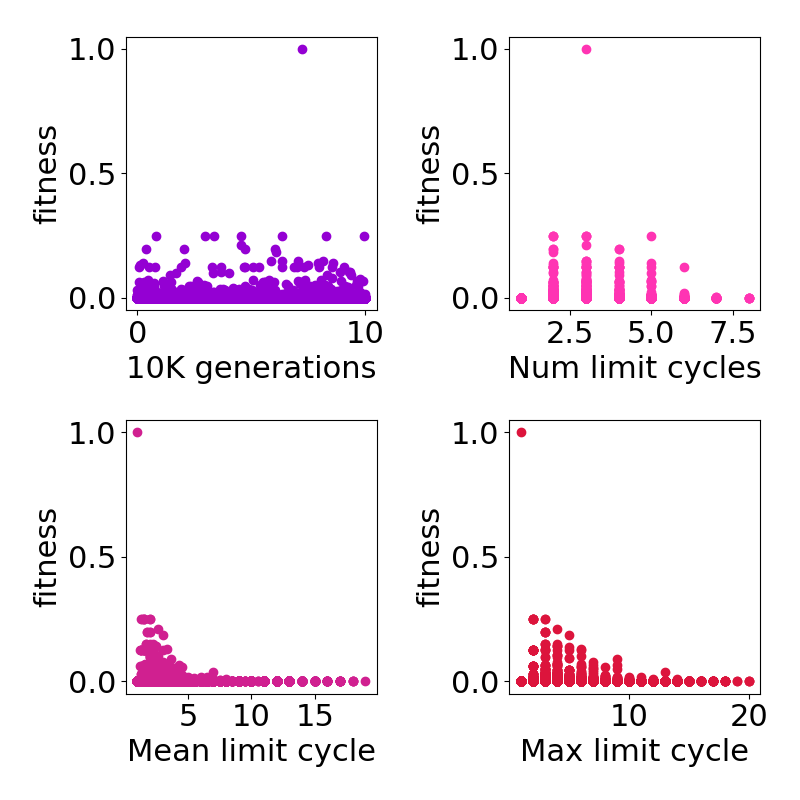
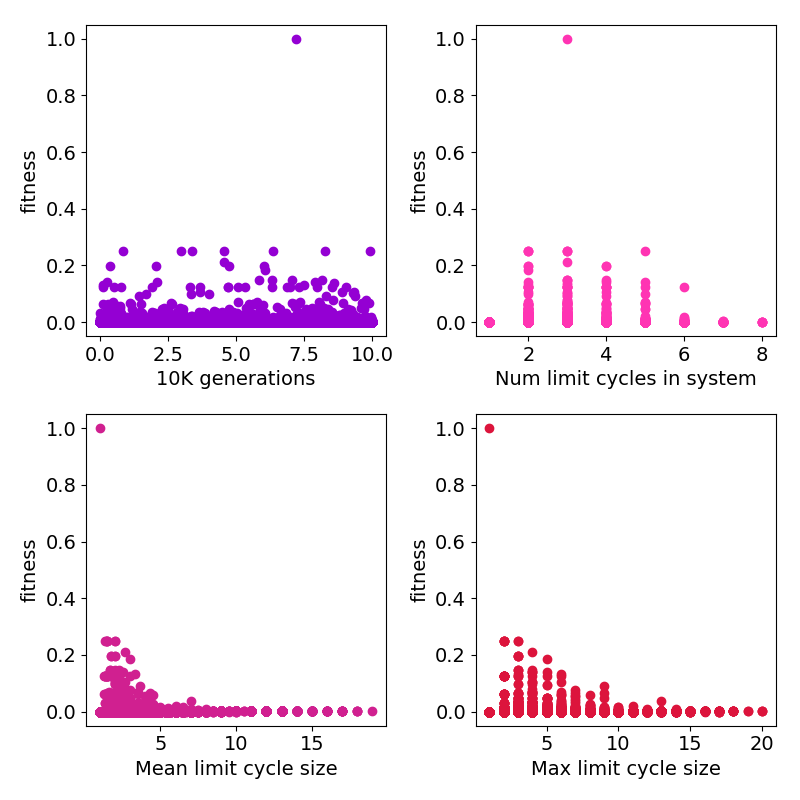
Adds plotting of null model stats

diff --git a/simsj/plot/plot_null_stats.py b/simsj/plot/plot_null_stats.py
@@ -31,7 +31,7 @@ def readDataset (filepath):
 # Set a default fontsize for matplotlib:
 fnt = {'family' : 'DejaVu Sans',
        'weight' : 'regular',
-       'size'   : 18}
+       'size'   : 14}
 matplotlib.rc('font', **fnt)
 
 F1 = plt.figure (figsize=(8,8))
@@ -47,19 +47,19 @@ f1.set_ylabel('fitness');
 f2 = F1.add_subplot(2,2,2)
 f2.plot (A[:,2],A[:,1],marker='o',linestyle='None',linewidth=2,color=col.maroon1)
 f2.set_ylabel('fitness');
-f2.set_xlabel('Num limit cycles');
+f2.set_xlabel('Num limit cycles in system');
 
 # Mean limit cycle length
 f3 = F1.add_subplot(2,2,3)
 f3.plot (A[:,3],A[:,1],marker='o',linestyle='None',linewidth=2,color=col.violetred)
 f3.set_ylabel('fitness');
-f3.set_xlabel('Mean limit cycle');
+f3.set_xlabel('Mean limit cycle size');
 
 # Max limit cycle length
 f4 = F1.add_subplot(2,2,4)
 f4.plot (A[:,4],A[:,1],marker='o',linestyle='None',linewidth=2,color=col.crimson)
 f4.set_ylabel('fitness');
-f4.set_xlabel('Max limit cycle');
+f4.set_xlabel('Max limit cycle size');
 
 #f1.set_xlim([-1, 0.01])
 F1.tight_layout()
